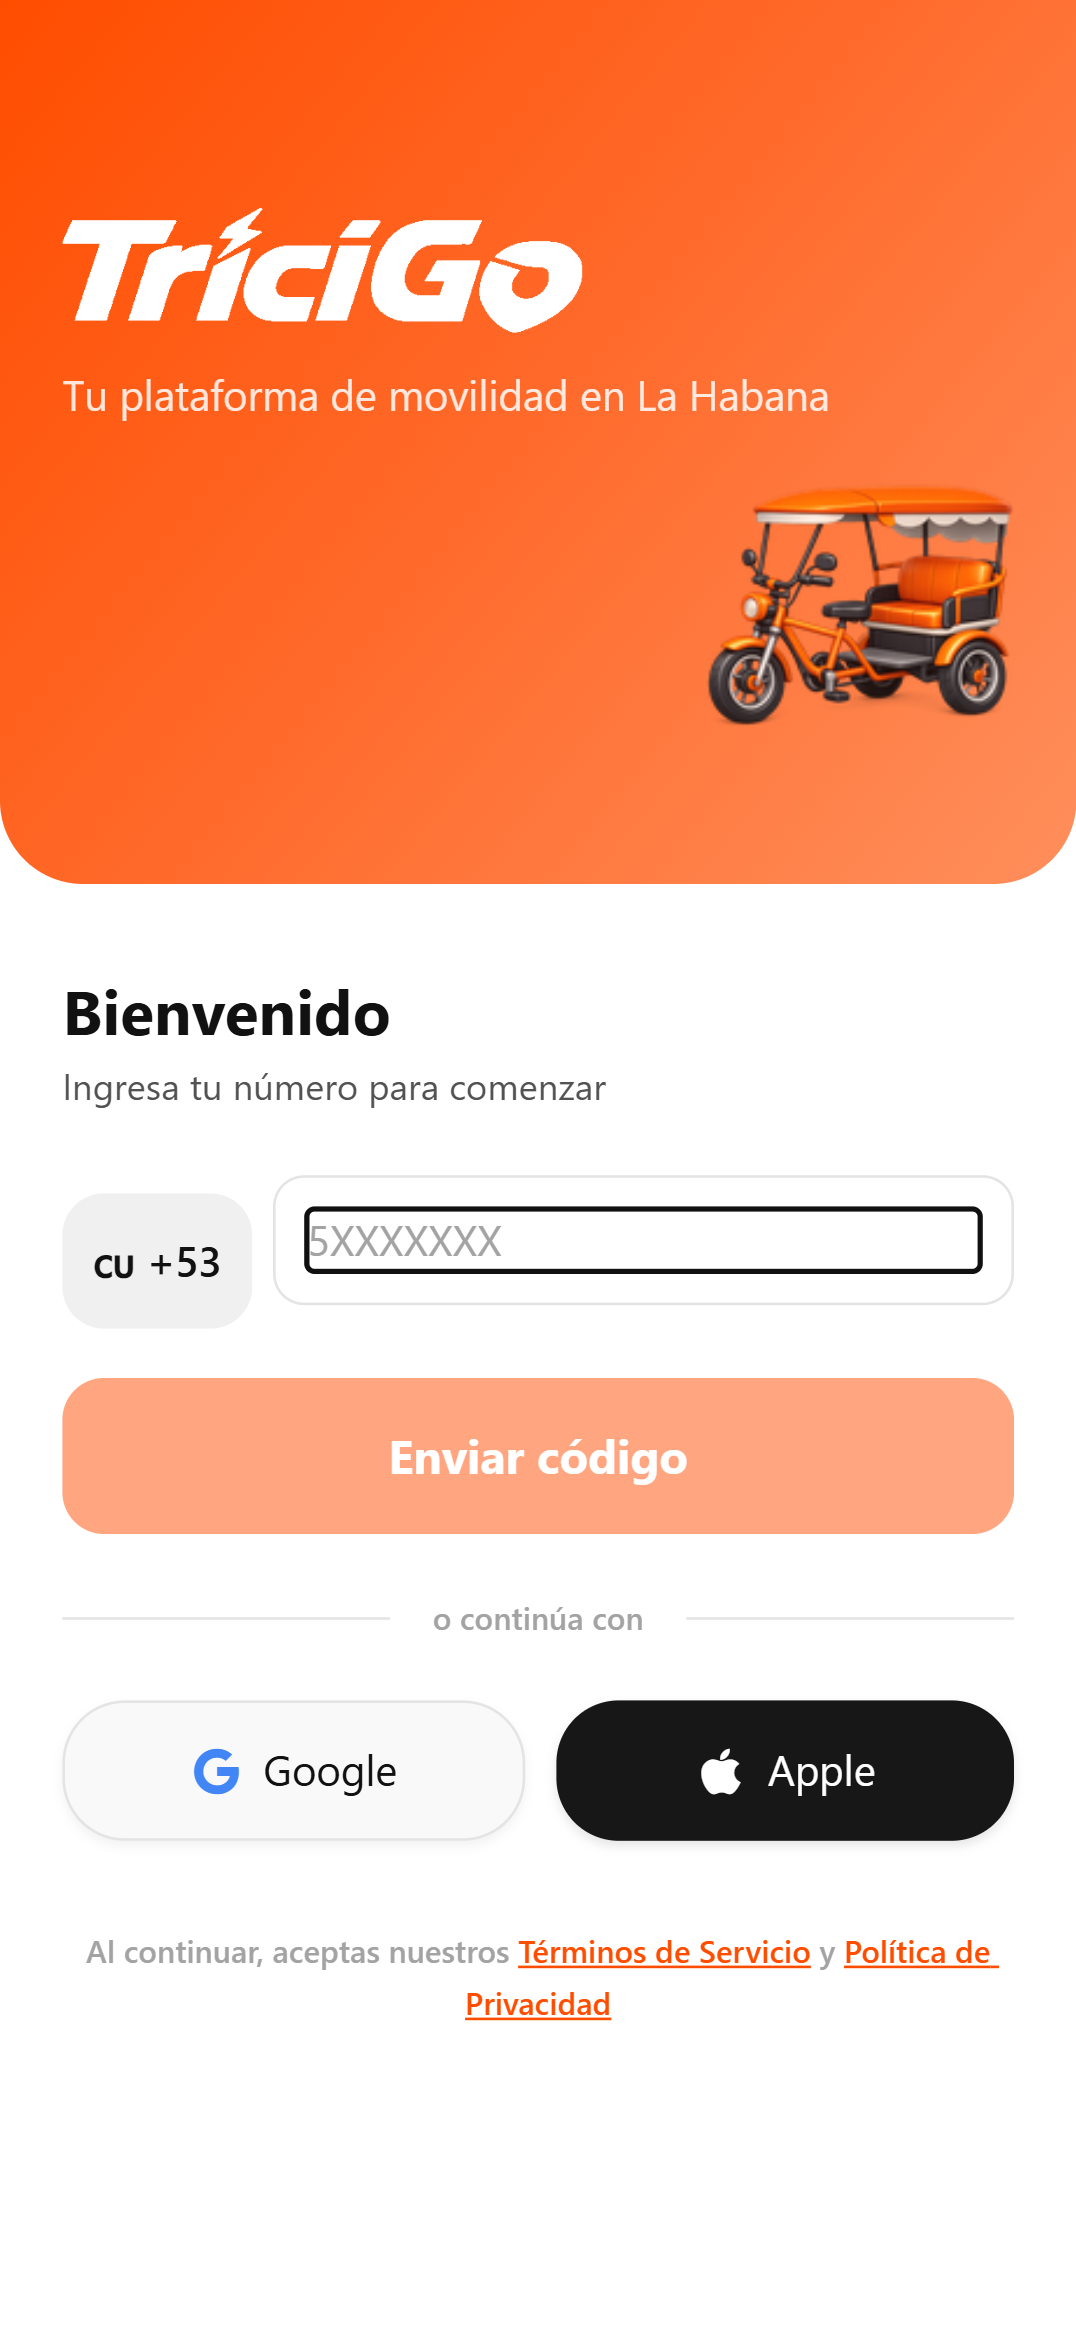
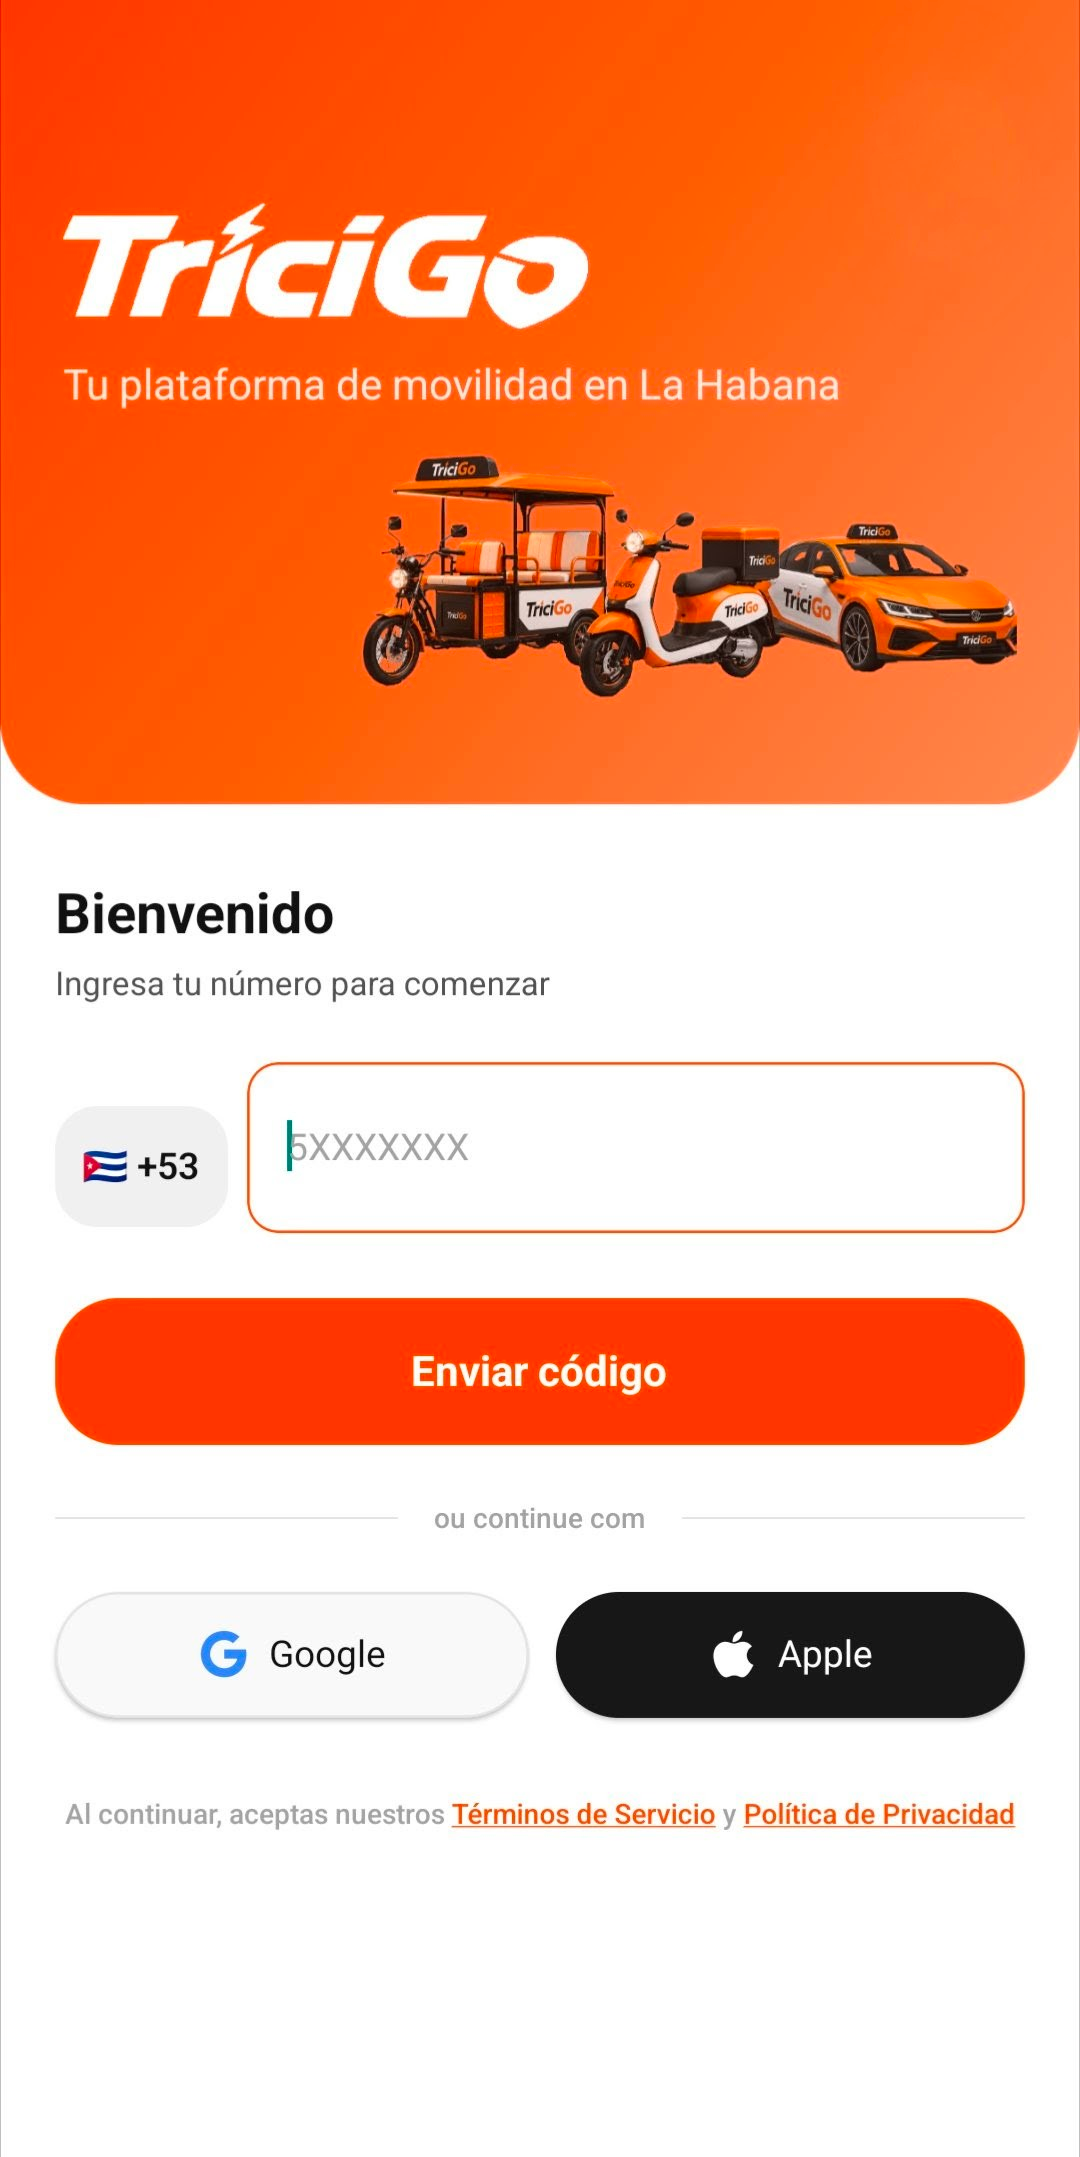
chore(web): refresh app screenshots to new Cuban design (web hero + client store set)
Replaces the outdated app screenshots (original request) with real captures of
the redesigned client app.

- Web hero (apps/web/public/images/screenshots/02-home.png): new Inicio screen
  (TriciGo header, balance, "¿A dónde vamos hoy?", last-ride re-book, Capitolio,
  CAMPAÑAS with the seeded promos). Resized to 780px wide; next/image height prop
  updated 844→793 to match the new aspect (CSS img is height:auto, so no
  distortion either way).
- Client store-metadata screenshots (01-login, 02-home, 03-rides, 04-wallet,
  05-profile): refreshed to the new design at native resolution (PNG, store-ready).

Driver store screenshots still pending (no driver captures yet) — follow-up.

Verified: `pnpm --filter @tricigo/web check-types` green; / and the hero image
render 200 in dev; hero image confirmed = the new Inicio screen.

diff --git a/apps/web/src/app/HomeClient.tsx b/apps/web/src/app/HomeClient.tsx
@@ -136,7 +136,7 @@ export default function HomeClient() {
                   src="/images/screenshots/02-home.png"
                   alt="TriciGo - App de transporte. Pedí triciclos, motos y autos."
                   width={390}
-                  height={844}
+                  height={793}
                   priority
                 />
               </div>
